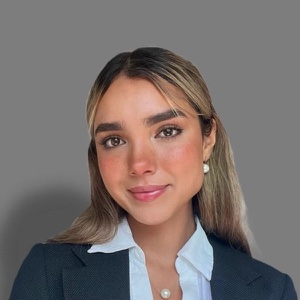
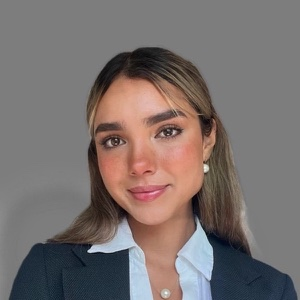
Update Olivia Ruderman's title and portrait
- Title: "Legal and BD" -> "Legal & BD Intern"
- Portrait: background shadow evened out to a clean grey, hair about
  one shade darker; face, skin and clothing unchanged
- Image link gets ?v=2 so browsers fetch the new photo

diff --git a/site/index.html b/site/index.html
@@ -632,7 +632,7 @@
     <section class="sec" aria-labelledby="exec-title">
       <div class="container">
         <h2 id="exec-title" class="sec-title">Advisors</h2>
-        <ul class="people mt-3"><li class="person" data-reveal><span class="person__photo"><img src="assets/img/team/sophie-grinevald.jpg" alt="Sophie Grinevald" width="134" height="134" loading="lazy" decoding="async"></span><b>Sophie Grinevald</b><span>Commercial Officer</span><a class="person__in" href="https://www.linkedin.com/in/sophie-grinevald/" target="_blank" rel="noopener noreferrer" aria-label="Sophie Grinevald on LinkedIn (opens in a new tab)"><svg viewBox="0 0 16 16" aria-hidden="true" focusable="false"><path fill="currentColor" d="M3.6 5.6H1.2V14h2.4V5.6zM2.4 1.6a1.4 1.4 0 1 0 0 2.8 1.4 1.4 0 0 0 0-2.8zM14.8 9.2c0-2.3-1.2-3.8-3.3-3.8-1.1 0-1.9.6-2.2 1.2V5.6H6.9V14h2.4V9.8c0-1.1.4-1.9 1.4-1.9s1.6.7 1.6 1.9V14h2.5V9.2z"/></svg>LinkedIn</a></li><li class="person" data-reveal><span class="person__photo"><img src="assets/img/team/ander-johnson.jpg" alt="Anders Johnson" width="134" height="134" loading="lazy" decoding="async"></span><b>Anders Johnson</b><span>Technical Advisor</span></li><li class="person" data-reveal><span class="person__photo"><img src="assets/img/team/craig-gavin.jpg" alt="Craig Gavin" width="134" height="134" loading="lazy" decoding="async"></span><b>Craig Gavin</b><span>Investor / Advisor</span><a class="person__in" href="https://www.linkedin.com/in/craig-gavin/" target="_blank" rel="noopener noreferrer" aria-label="Craig Gavin on LinkedIn (opens in a new tab)"><svg viewBox="0 0 16 16" aria-hidden="true" focusable="false"><path fill="currentColor" d="M3.6 5.6H1.2V14h2.4V5.6zM2.4 1.6a1.4 1.4 0 1 0 0 2.8 1.4 1.4 0 0 0 0-2.8zM14.8 9.2c0-2.3-1.2-3.8-3.3-3.8-1.1 0-1.9.6-2.2 1.2V5.6H6.9V14h2.4V9.8c0-1.1.4-1.9 1.4-1.9s1.6.7 1.6 1.9V14h2.5V9.2z"/></svg>LinkedIn</a></li><li class="person" data-reveal><span class="person__photo"><img src="assets/img/team/olivia-ruderman.jpg" alt="Olivia Ruderman" width="134" height="134" loading="lazy" decoding="async"></span><b>Olivia Ruderman</b><span>Legal and BD</span><a class="person__in" href="https://www.linkedin.com/in/olivia-ruderman-3a3557261/" target="_blank" rel="noopener noreferrer" aria-label="Olivia Ruderman on LinkedIn (opens in a new tab)"><svg viewBox="0 0 16 16" aria-hidden="true" focusable="false"><path fill="currentColor" d="M3.6 5.6H1.2V14h2.4V5.6zM2.4 1.6a1.4 1.4 0 1 0 0 2.8 1.4 1.4 0 0 0 0-2.8zM14.8 9.2c0-2.3-1.2-3.8-3.3-3.8-1.1 0-1.9.6-2.2 1.2V5.6H6.9V14h2.4V9.8c0-1.1.4-1.9 1.4-1.9s1.6.7 1.6 1.9V14h2.5V9.2z"/></svg>LinkedIn</a></li></ul>
+        <ul class="people mt-3"><li class="person" data-reveal><span class="person__photo"><img src="assets/img/team/sophie-grinevald.jpg" alt="Sophie Grinevald" width="134" height="134" loading="lazy" decoding="async"></span><b>Sophie Grinevald</b><span>Commercial Officer</span><a class="person__in" href="https://www.linkedin.com/in/sophie-grinevald/" target="_blank" rel="noopener noreferrer" aria-label="Sophie Grinevald on LinkedIn (opens in a new tab)"><svg viewBox="0 0 16 16" aria-hidden="true" focusable="false"><path fill="currentColor" d="M3.6 5.6H1.2V14h2.4V5.6zM2.4 1.6a1.4 1.4 0 1 0 0 2.8 1.4 1.4 0 0 0 0-2.8zM14.8 9.2c0-2.3-1.2-3.8-3.3-3.8-1.1 0-1.9.6-2.2 1.2V5.6H6.9V14h2.4V9.8c0-1.1.4-1.9 1.4-1.9s1.6.7 1.6 1.9V14h2.5V9.2z"/></svg>LinkedIn</a></li><li class="person" data-reveal><span class="person__photo"><img src="assets/img/team/ander-johnson.jpg" alt="Anders Johnson" width="134" height="134" loading="lazy" decoding="async"></span><b>Anders Johnson</b><span>Technical Advisor</span></li><li class="person" data-reveal><span class="person__photo"><img src="assets/img/team/craig-gavin.jpg" alt="Craig Gavin" width="134" height="134" loading="lazy" decoding="async"></span><b>Craig Gavin</b><span>Investor / Advisor</span><a class="person__in" href="https://www.linkedin.com/in/craig-gavin/" target="_blank" rel="noopener noreferrer" aria-label="Craig Gavin on LinkedIn (opens in a new tab)"><svg viewBox="0 0 16 16" aria-hidden="true" focusable="false"><path fill="currentColor" d="M3.6 5.6H1.2V14h2.4V5.6zM2.4 1.6a1.4 1.4 0 1 0 0 2.8 1.4 1.4 0 0 0 0-2.8zM14.8 9.2c0-2.3-1.2-3.8-3.3-3.8-1.1 0-1.9.6-2.2 1.2V5.6H6.9V14h2.4V9.8c0-1.1.4-1.9 1.4-1.9s1.6.7 1.6 1.9V14h2.5V9.2z"/></svg>LinkedIn</a></li><li class="person" data-reveal><span class="person__photo"><img src="assets/img/team/olivia-ruderman.jpg?v=2" alt="Olivia Ruderman" width="134" height="134" loading="lazy" decoding="async"></span><b>Olivia Ruderman</b><span>Legal &amp; BD Intern</span><a class="person__in" href="https://www.linkedin.com/in/olivia-ruderman-3a3557261/" target="_blank" rel="noopener noreferrer" aria-label="Olivia Ruderman on LinkedIn (opens in a new tab)"><svg viewBox="0 0 16 16" aria-hidden="true" focusable="false"><path fill="currentColor" d="M3.6 5.6H1.2V14h2.4V5.6zM2.4 1.6a1.4 1.4 0 1 0 0 2.8 1.4 1.4 0 0 0 0-2.8zM14.8 9.2c0-2.3-1.2-3.8-3.3-3.8-1.1 0-1.9.6-2.2 1.2V5.6H6.9V14h2.4V9.8c0-1.1.4-1.9 1.4-1.9s1.6.7 1.6 1.9V14h2.5V9.2z"/></svg>LinkedIn</a></li></ul>
       </div>
     </section>
 
